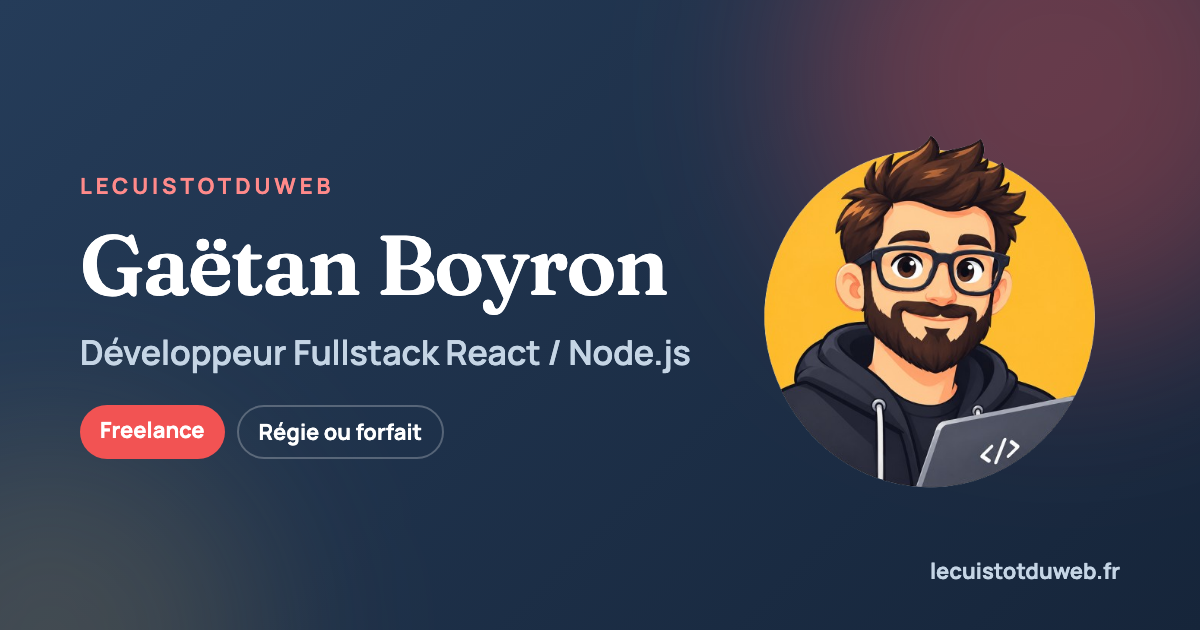
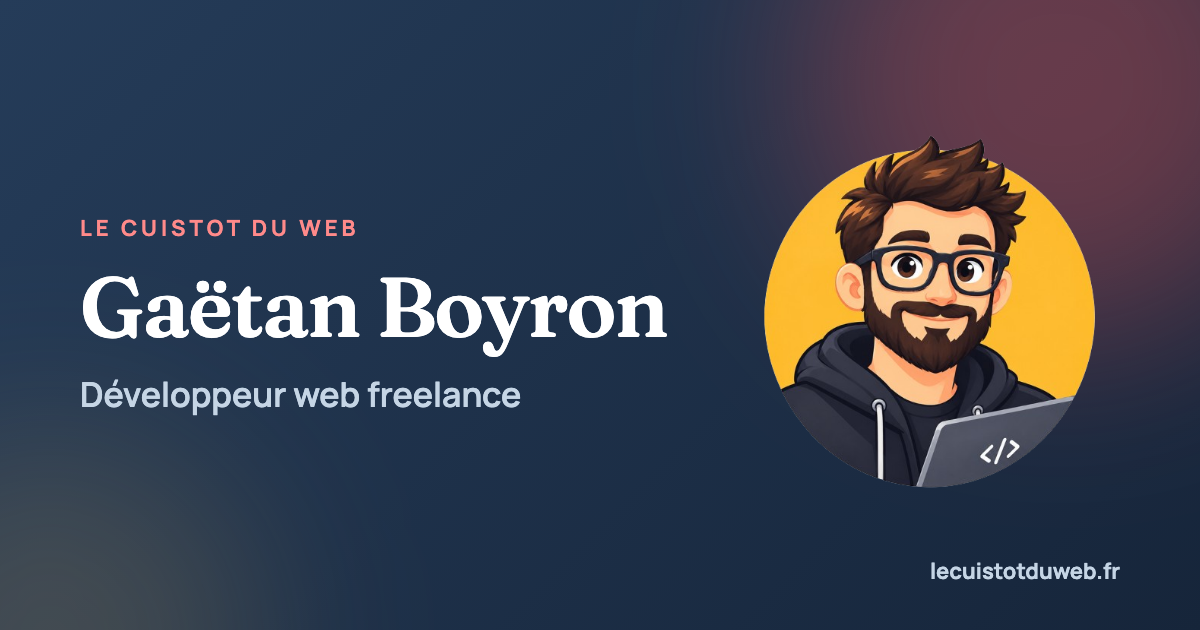
feat: image de partage simplifiée et centralisée
- texte réduit : Le Cuistot du Web, Gaëtan Boyron, Développeur web freelance
- URL unique dans siteConfig.ogImage, utilisée par toutes les pages et le JSON-LD
- ?v=2 sur l'URL pour forcer LinkedIn, Slack… à recharger l'image

Changed region(s): [[0.0617, 0.2714, 0.5858, 0.754]]

diff --git a/src/config.ts b/src/config.ts
@@ -15,6 +15,9 @@ export const siteConfig = {
 	role: "Développeur Fullstack React/Node.js",
 	email: "contact@lecuistotduweb.fr",
 	url: site.origin,
+	// Image de partage (1200×630), générée par scripts/og-image.mjs. Incrémenter
+	// ?v= à chaque nouvelle image : LinkedIn, Slack… la gardent en cache par URL.
+	ogImage: `${site.origin}/og-image.png?v=2`,
 	shortUrl: site.host,
 	bio: "Je conçois et fais évoluer vos applications web, du front-end React / Next.js au back-end Node.js, jusqu'à la mise en production : rapides, accessibles et faciles à maintenir. Développeur depuis plus de 8 ans, j'ai travaillé pour Fnac Darty et Infogreffe sur des produits à fort trafic, main dans la main avec les équipes Produit, UX et Backend. En renfort de votre équipe, sur un projet clé en main ou pour faire évoluer votre site WordPress. Basé à Vernon, dans l'Eure, je crée aussi des sites internet pour les restaurants, salons et TPE/PME de la région.",
 	social: {

diff --git a/src/lib/views.ts b/src/lib/views.ts
@@ -58,8 +58,7 @@ export const PARCOURS_CONTENT: Record<
 	},
 };
 
-// Image de partage (1200×630) : générée par scripts/og-image.mjs
-const OG_IMAGE = `${siteConfig.url}/og-image.png`;
+const OG_IMAGE = siteConfig.ogImage;
 
 /** <head> de l'accueil (une seule page : les chapitres sont des ancres). */
 export function viewHead() {
@@ -77,7 +76,7 @@ export function viewHead() {
 			{ property: "og:image:height", content: "630" },
 			{
 				property: "og:image:alt",
-				content: `${siteConfig.name} — ${siteConfig.role} freelance`,
+				content: `${siteConfig.name}, développeur web freelance`,
 			},
 			{ name: "twitter:card", content: "summary_large_image" },
 			{ name: "twitter:title", content: title },

diff --git a/src/routes/tarifs.tsx b/src/routes/tarifs.tsx
@@ -8,7 +8,7 @@ const PATH = "/tarifs";
 const PAGE_URL = `${siteConfig.url}${PATH}`;
 const TITLE = `Tarifs création de site internet à ${siteConfig.local.city} — ${siteConfig.local.businessName}`;
 const DESCRIPTION = `Site vitrine dès 1 200 €, maintenance dès 49 €/mois : les tarifs de ${siteConfig.name}, développeur web freelance à ${siteConfig.local.city} (${siteConfig.local.department}). Devis gratuit.`;
-const OG_IMAGE = `${siteConfig.url}/og-image.png`;
+const OG_IMAGE = siteConfig.ogImage;
 
 // JSON-LD : catalogue des formules, rattaché au ProfessionalService du site
 const pageGraph = {

diff --git a/src/routes/realisations.tsx b/src/routes/realisations.tsx
@@ -8,7 +8,7 @@ const PATH = "/realisations";
 const PAGE_URL = `${siteConfig.url}${PATH}`;
 const TITLE = `Réalisations — ${siteConfig.name}`;
 const DESCRIPTION = `Tous les projets de ${siteConfig.name}, développeur web freelance : missions pour Fnac Darty et Infogreffe, e-commerce, SaaS, sites vitrines et portfolios.`;
-const OG_IMAGE = `${siteConfig.url}/og-image.png`;
+const OG_IMAGE = siteConfig.ogImage;
 
 // JSON-LD : page de collection et liste des projets
 const pageGraph = {

diff --git a/src/lib/structured-data.ts b/src/lib/structured-data.ts
@@ -75,7 +75,7 @@ export function structuredData() {
 			],
 			url: siteConfig.url,
 			description: siteConfig.description,
-			image: `${siteConfig.url}/og-image.png`,
+			image: siteConfig.ogImage,
 			logo: `${siteConfig.url}/icon-512.png`,
 			email: siteConfig.email,
 			founder: { "@id": personId },

diff --git a/src/lib/local-head.ts b/src/lib/local-head.ts
@@ -7,7 +7,7 @@ import {
 	structuredData,
 } from "#/lib/structured-data";
 
-const OG_IMAGE = `${siteConfig.url}/og-image.png`;
+const OG_IMAGE = siteConfig.ogImage;
 
 // <head> d'une page locale : balises SEO + JSON-LD (Service, FAQ)
 export function localPageHead(path: string) {
